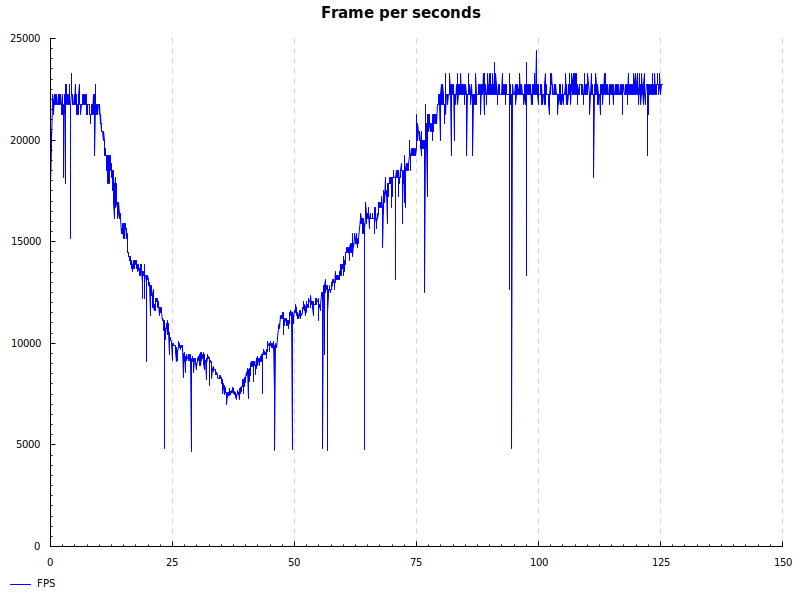
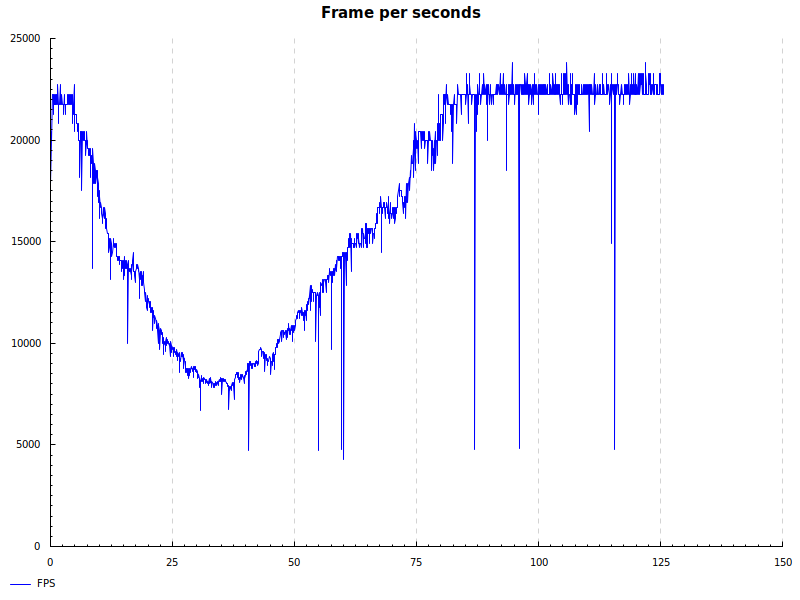
Optimize rust

Changed region(s): [[0.0625, 0.12, 0.8438, 0.75]]

diff --git a/rust/asteroids/src/asteroids/render.rs b/rust/asteroids/src/asteroids/render.rs
@@ -94,10 +94,11 @@ fn render_asteroid(
     pos: &Pos,
     rot: &Rot,
 ) -> Result<(), String> {
-    for i in 0..asteroid.edges {
-        let p1 = circloid_point(i, asteroid.edges, asteroid.radius, pos.0, rot.0);
-        let p2 = circloid_point(i + 1, asteroid.edges, asteroid.radius, pos.0, rot.0);
-        canvas.draw_line(p1, p2)?;
+    let mut points = [Point::new(0, 0); ASTEROID_EDGES_RANGE.1 as usize * 2];
+    for i in 0..asteroid.edges as usize {
+        points[2*i] = circloid_point(i as u32, asteroid.edges, asteroid.radius, pos.0, rot.0);
+        points[2*i+1] = circloid_point((i + 1) as u32, asteroid.edges, asteroid.radius, pos.0, rot.0);
     }
+    canvas.draw_lines(&points[0 .. asteroid.edges as usize * 2])?;
     Ok(())
 }
